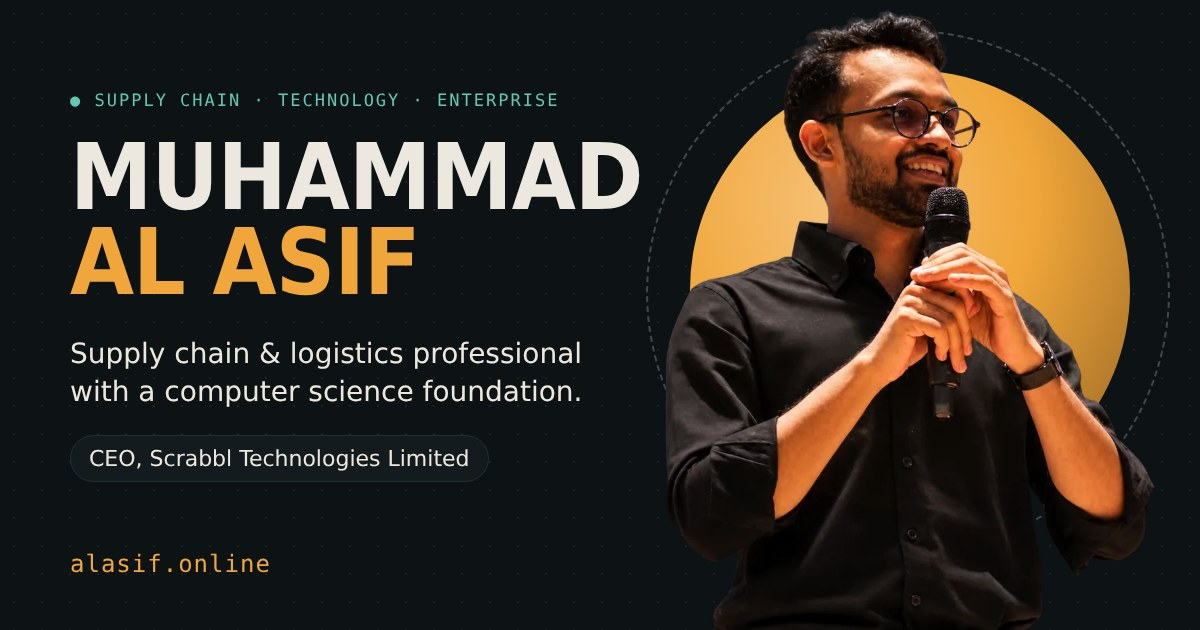
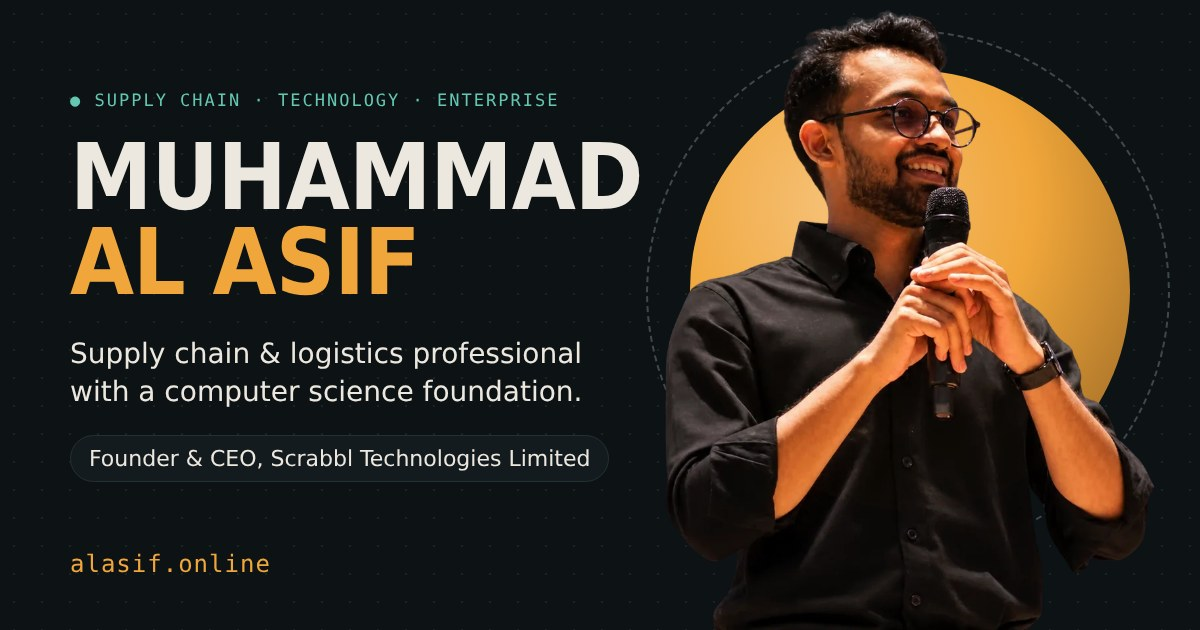
Use Founder & CEO title for Scrabbl Technologies
Claude-Session: https://claude.ai/code/session_01WKDzxDcBrRuKpMvRXmihHk

Changed region(s): [[0.0617, 0.6937, 0.4933, 0.754]]

diff --git a/index.html b/index.html
@@ -3,8 +3,8 @@
 <head>
 <meta charset="utf-8">
 <meta name="viewport" content="width=device-width, initial-scale=1, viewport-fit=cover">
-<title>Muhammad Al Asif | Supply Chain &amp; Logistics Professional, CEO of Scrabbl Technologies</title>
-<meta name="description" content="Muhammad Al Asif (Ash) is a London-based supply chain and logistics professional with an MSc from the University of Hull, a BSc in Computer Science and CEO of Scrabbl Technologies Limited.">
+<title>Muhammad Al Asif | Supply Chain &amp; Logistics Professional, Founder &amp; CEO of Scrabbl Technologies</title>
+<meta name="description" content="Muhammad Al Asif (Ash) is a London-based supply chain and logistics professional with an MSc from the University of Hull, a BSc in Computer Science and Founder &amp; CEO of Scrabbl Technologies Limited.">
 <meta name="author" content="Muhammad Al Asif">
 <meta name="robots" content="index, follow, max-image-preview:large">
 <meta name="theme-color" content="#0D1315">
@@ -15,17 +15,17 @@
 <meta property="og:locale" content="en_GB">
 <meta property="og:url" content="https://alasif.online/">
 <meta property="og:site_name" content="Muhammad Al Asif">
-<meta property="og:title" content="Muhammad Al Asif | Supply Chain &amp; Logistics, CEO of Scrabbl Technologies">
-<meta property="og:description" content="Muhammad Al Asif (Ash) is a London-based supply chain and logistics professional with an MSc from the University of Hull, a BSc in Computer Science and CEO of Scrabbl Technologies Limited.">
+<meta property="og:title" content="Muhammad Al Asif | Supply Chain &amp; Logistics, Founder &amp; CEO of Scrabbl Technologies">
+<meta property="og:description" content="Muhammad Al Asif (Ash) is a London-based supply chain and logistics professional with an MSc from the University of Hull, a BSc in Computer Science and Founder &amp; CEO of Scrabbl Technologies Limited.">
 <meta property="og:image" content="https://alasif.online/assets/og-image.jpg">
 <meta property="og:image:width" content="1200">
 <meta property="og:image:height" content="630">
-<meta property="og:image:alt" content="Muhammad Al Asif, supply chain and logistics professional and CEO of Scrabbl Technologies Limited">
+<meta property="og:image:alt" content="Muhammad Al Asif, supply chain and logistics professional and Founder &amp; CEO of Scrabbl Technologies Limited">
 <meta name="twitter:card" content="summary_large_image">
 <meta name="twitter:site" content="@siff08">
 <meta name="twitter:creator" content="@siff08">
-<meta name="twitter:title" content="Muhammad Al Asif | Supply Chain &amp; Logistics, CEO of Scrabbl Technologies">
-<meta name="twitter:description" content="Muhammad Al Asif (Ash) is a London-based supply chain and logistics professional with an MSc from the University of Hull, a BSc in Computer Science and CEO of Scrabbl Technologies Limited.">
+<meta name="twitter:title" content="Muhammad Al Asif | Supply Chain &amp; Logistics, Founder &amp; CEO of Scrabbl Technologies">
+<meta name="twitter:description" content="Muhammad Al Asif (Ash) is a London-based supply chain and logistics professional with an MSc from the University of Hull, a BSc in Computer Science and Founder &amp; CEO of Scrabbl Technologies Limited.">
 <meta name="twitter:image" content="https://alasif.online/assets/og-image.jpg">
 <link rel="icon" type="image/png" sizes="64x64" href="assets/favicon.png?v=3">
 <link rel="icon" type="image/png" sizes="32x32" href="assets/favicon-32.png?v=3">
@@ -47,10 +47,10 @@
    "url": "https://alasif.online/",
    "image": "https://alasif.online/assets/ash.webp",
    "jobTitle": [
-    "Chief Executive Officer",
+    "Founder & Chief Executive Officer",
     "Supply Chain & Logistics Professional"
    ],
-   "description": "Supply chain and logistics professional with a computer science background, and co-founder and CEO of Scrabbl Technologies Limited.",
+   "description": "Supply chain and logistics professional with a computer science background, and Founder & CEO of Scrabbl Technologies Limited.",
    "worksFor": {
     "@type": "Organization",
     "name": "Scrabbl Technologies Limited",
@@ -612,7 +612,7 @@ footer .wrap{display:flex;justify-content:space-between;flex-wrap:wrap;gap:12px;
       </div>
       <h1 class="name"><span class="l"><span>Muhammad</span></span><span class="l"><span>Al Asif</span></span></h1>
       <p class="role">Supply chain &amp; logistics professional with a computer science foundation and a founder's instinct for building.</p>
-      <a class="ceo" href="https://scrabbl.dev" target="_blank" rel="noopener" title="Visit scrabbl.dev"><span class="dot" aria-hidden="true"></span><span><b>CEO, Scrabbl Technologies Limited</b> <span class="muted">· since Sep 2026 ↗</span></span></a>
+      <a class="ceo" href="https://scrabbl.dev" target="_blank" rel="noopener" title="Visit scrabbl.dev"><span class="dot" aria-hidden="true"></span><span><b>Founder &amp; CEO, Scrabbl Technologies Limited</b> <span class="muted">· since Sep 2026 ↗</span></span></a>
       <p class="lede">MSc Logistics &amp; Supply Chain Management (University of Hull) and BSc Computer Science. I've moved goods, run shifts, coordinated 30+ client projects and delivered 40+ events. Now I combine operations know-how with software to make supply chains faster, leaner and easier to see.</p>
       <div class="ctas">
         <a class="btn primary" href="#experience">See my experience <span class="arr">→</span></a>
@@ -626,7 +626,7 @@ footer .wrap{display:flex;justify-content:space-between;flex-wrap:wrap;gap:12px;
         <div class="orbit" aria-hidden="true"><i></i></div>
         <div class="orbit o2" aria-hidden="true"><i></i></div>
         <div class="pl"><img src="assets/ash.webp" fetchpriority="high" alt="Muhammad Al Asif speaking on stage with a microphone" width="760" height="947"></div>
-        <span class="ptag t1 mono"><span class="dot" aria-hidden="true"></span>CEO · Scrabbl Technologies</span>
+        <span class="ptag t1 mono"><span class="dot" aria-hidden="true"></span>Founder &amp; CEO · Scrabbl</span>
         <span class="ptag t2 mono">MSc LSCM · Hull</span>
         <span class="ptag t3 mono">40+ events led</span>
       </div>
@@ -751,7 +751,7 @@ footer .wrap{display:flex;justify-content:space-between;flex-wrap:wrap;gap:12px;
       <div class="stop now reveal" id="s-scrabbl">
         <div class="when mono"><b>Sep 2026 –</b>Present<span class="scan live">Out for delivery</span><span class="loc">London, UK</span></div>
         <div class="what">
-          <h3>Co-founder &amp; CEO <span class="tag-live mono"><span class="dot"></span>Live</span></h3>
+          <h3>Founder &amp; CEO <span class="tag-live mono"><span class="dot"></span>Live</span></h3>
           <div class="org"><a class="xlink" href="https://scrabbl.dev" target="_blank" rel="noopener">Scrabbl Technologies Limited ↗</a> · London, UK</div>
           <ul>
             <li>Lead a custom software development company with three co-founding directors</li>
@@ -835,7 +835,7 @@ footer .wrap{display:flex;justify-content:space-between;flex-wrap:wrap;gap:12px;
       <div class="v-main">
         <span class="v-badge mono"><span class="dot"></span>Founded September 2026 · Live</span>
         <a class="v-name" href="https://scrabbl.dev" target="_blank" rel="noopener" title="Visit scrabbl.dev">Scrabbl<br><span>Technologies</span></a>
-        <div class="v-role">Co-founder &amp; Chief Executive Officer</div>
+        <div class="v-role">Founder &amp; Chief Executive Officer</div>
         <p>A custom software development company registered in England &amp; Wales. We design and build software for businesses that have outgrown spreadsheets and off-the-shelf tools. I lead strategy, partnerships and the company's direction, drawing on my background in both computer science and operations.</p>
         <a class="btn primary v-visit" href="https://scrabbl.dev" target="_blank" rel="noopener">Visit scrabbl.dev <span class="arr">↗</span></a>
         <div class="v-facts">
@@ -849,7 +849,7 @@ footer .wrap{display:flex;justify-content:space-between;flex-wrap:wrap;gap:12px;
           <div class="mono muted" style="margin-bottom:8px">Build log</div>
           <div class="log">
             <div><time>Sep 2026</time><span>Company founded by four equal partners</span></div>
-            <div><time>Oct 2026</time><span>Leadership team set: CEO, CTO, COO, CMO</span></div>
+            <div><time>Oct 2026</time><span>Leadership team set: CEO, CTO, CFO, CMO</span></div>
             <div><time>Nov 2026</time><span>Governance and shareholder framework drafted</span></div>
             <div><time>Next</time><span class="muted">First client builds in delivery</span></div>
           </div>
@@ -1038,7 +1038,7 @@ footer .wrap{display:flex;justify-content:space-between;flex-wrap:wrap;gap:12px;
   /* ticker */
   const lines=[
     ['OK','Route','DAC → LON complete'],
-    ['LIVE','Scrabbl Technologies','CEO since Sep 2026'],
+    ['LIVE','Scrabbl Technologies','Founder & CEO since Sep 2026'],
     ['OK','MSc LSCM','University of Hull · completed'],
     ['OK','Dissertation','Li-ion battery supply chains · PRISMA 2020'],
     ['OK','Projects coordinated','30+'],
